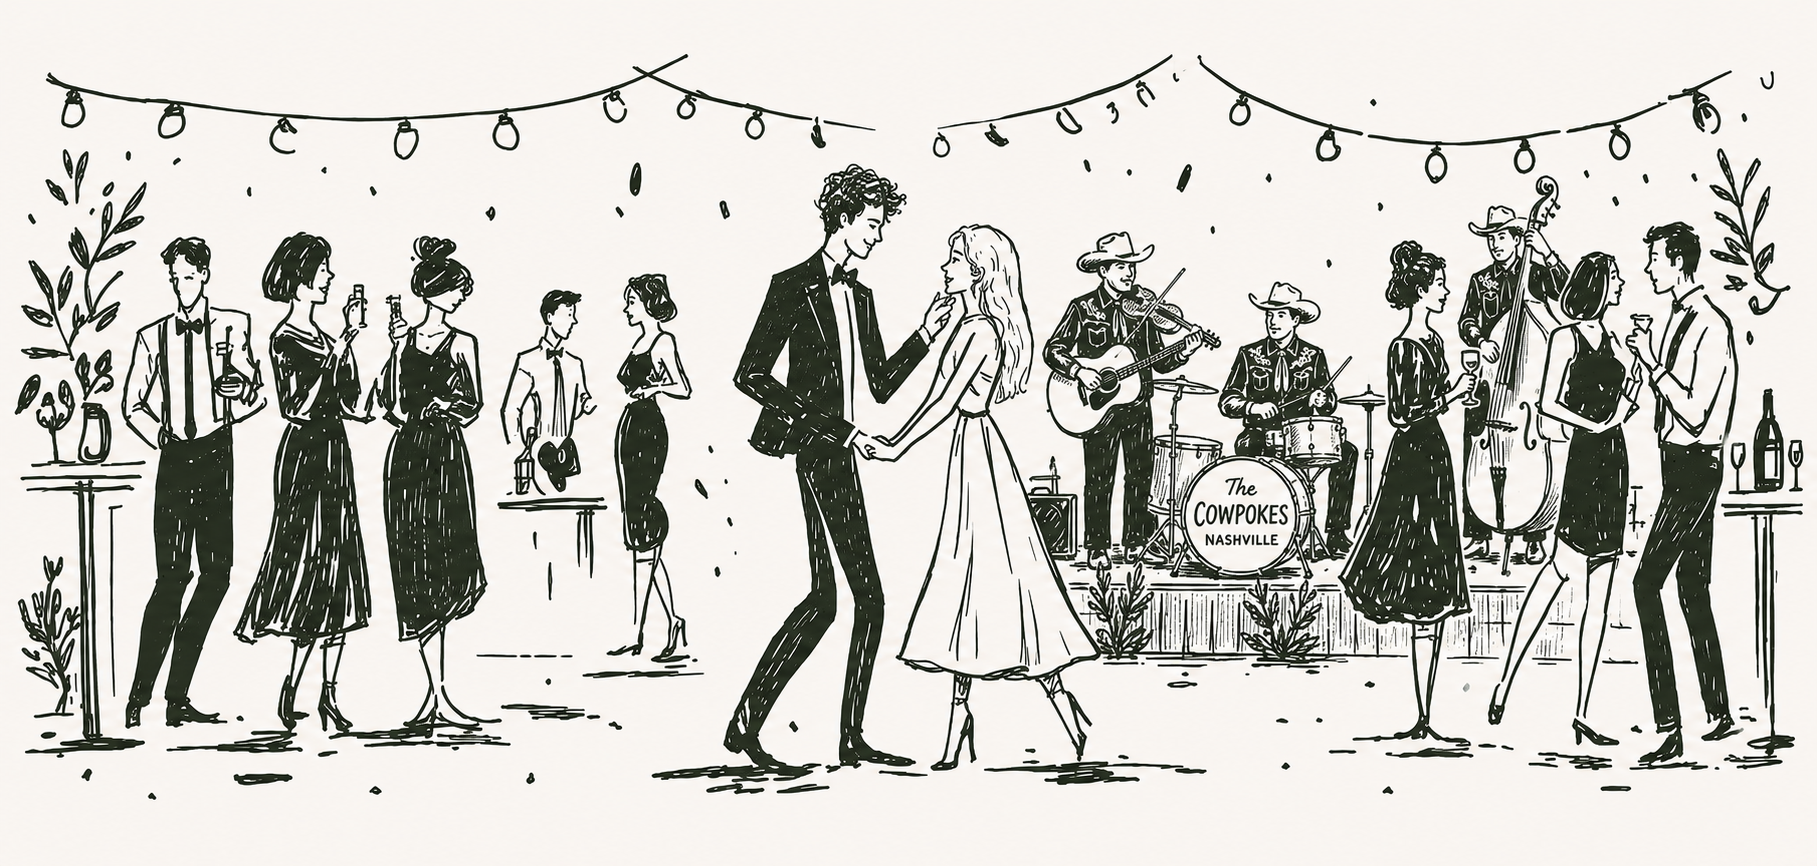
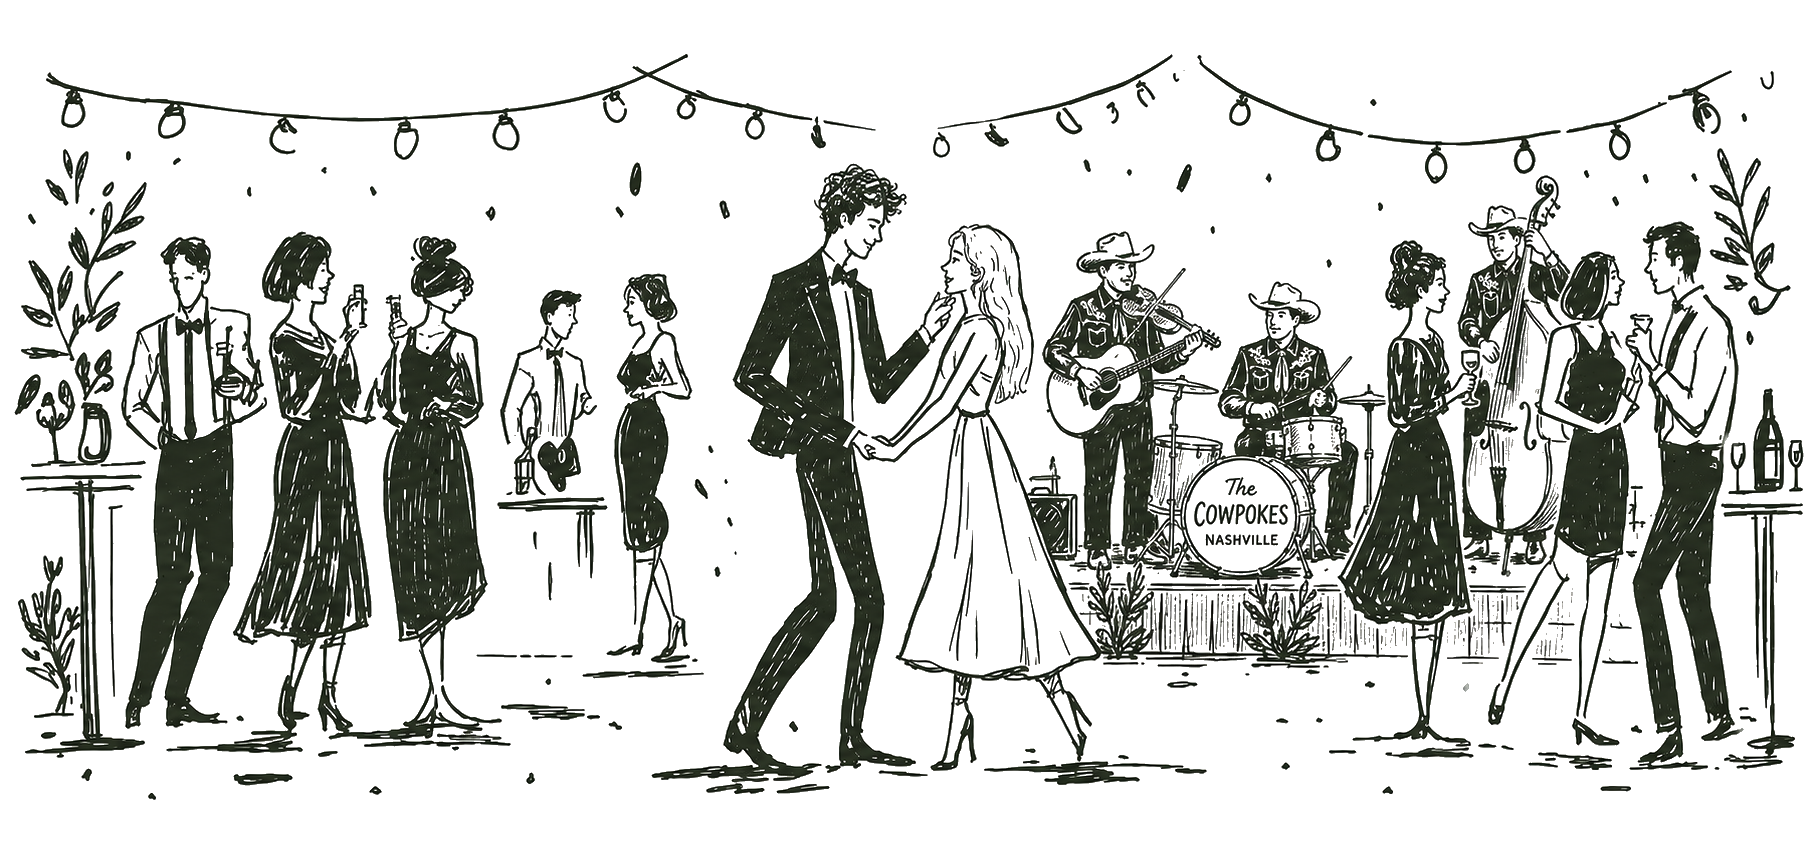
Transparent hero bg, per-event RSVP counts, adjust pink/cream colors
- Removed hero illustration background (now transparent PNG)
- Site background updated to #FEFAEE (R:254 G:250 B:238)
- Pink darkened ~4% from #FADADD to #F0C6CA for better readability
- Admin dashboard: added RSVPs by Event section showing attending/declined
  counts per event (wedding, rehearsal dinner, game day)

diff --git a/app/admin/(dashboard)/page.tsx b/app/admin/(dashboard)/page.tsx
@@ -15,6 +15,8 @@ export default async function AdminDashboardPage() {
     declinedResult,
     allRsvpsResult,
     recentRsvpsResult,
+    eventsResult,
+    perEventRsvpsResult,
   ] = await Promise.all([
     supabase.from("parties").select("id", { count: "exact", head: true }),
     supabase.from("guests").select("id", { count: "exact", head: true }),
@@ -37,6 +39,10 @@ export default async function AdminDashboardPage() {
       .not("responded_at", "is", null)
       .order("responded_at", { ascending: false })
       .limit(10),
+    // All events for per-event breakdown
+    supabase.from("events").select("id, name, slug").order("sort_order"),
+    // All RSVPs with event_id and status for per-event counts
+    supabase.from("rsvps").select("event_id, status").not("responded_at", "is", null),
   ]);
 
   const totalParties = partiesResult.count ?? 0;
@@ -68,6 +74,18 @@ export default async function AdminDashboardPage() {
 
   const recentRsvps = recentRsvpsResult.data ?? [];
 
+  // Per-event RSVP breakdown
+  const events = eventsResult.data ?? [];
+  const perEventRsvps = perEventRsvpsResult.data ?? [];
+  const eventBreakdown = events.map((event) => {
+    const eventRsvps = perEventRsvps.filter((r) => r.event_id === event.id);
+    return {
+      name: event.name,
+      attending: eventRsvps.filter((r) => r.status === "attending").length,
+      declined: eventRsvps.filter((r) => r.status === "declined").length,
+    };
+  });
+
   return (
     <div className="max-w-5xl">
       <h1 className="font-heading text-3xl text-deep-sage mb-8">Dashboard</h1>
@@ -87,6 +105,28 @@ export default async function AdminDashboardPage() {
       <div className="grid grid-cols-1 sm:grid-cols-2 gap-4 mb-10">
         <SummaryCard label="No Response Yet" value={noResponseCount} />
         <SummaryCard label="Total RSVPs" value={totalRsvps} subtitle="(individual guest + event responses)" />
+      </div>
+
+      {/* Per-event breakdown */}
+      <h2 className="font-heading text-xl text-deep-sage mb-4">
+        RSVPs by Event
+      </h2>
+      <div className="grid grid-cols-1 sm:grid-cols-2 lg:grid-cols-3 gap-4 mb-10">
+        {eventBreakdown.map((evt) => (
+          <div key={evt.name} className="bg-white rounded-xl border border-sage/30 p-6">
+            <p className="text-sm font-medium text-dark mb-3">{evt.name}</p>
+            <div className="flex items-baseline gap-6">
+              <div>
+                <p className="text-2xl font-heading text-green-700">{evt.attending}</p>
+                <p className="text-xs text-dark/50">attending</p>
+              </div>
+              <div>
+                <p className="text-2xl font-heading text-red-600">{evt.declined}</p>
+                <p className="text-xs text-dark/50">declined</p>
+              </div>
+            </div>
+          </div>
+        ))}
       </div>
 
       {/* Recent activity */}

diff --git a/app/globals.css b/app/globals.css
@@ -10,9 +10,9 @@
 }
 
 :root {
-  --color-pink: #FADADD;
+  --color-pink: #F0C6CA;
   --color-sage: #B5B88C;
-  --color-cream: #F3EAE0;
+  --color-cream: #FEFAEE;
   --color-dark: #2A2A2A;
   --color-deep-sage: #4A5530;
 
